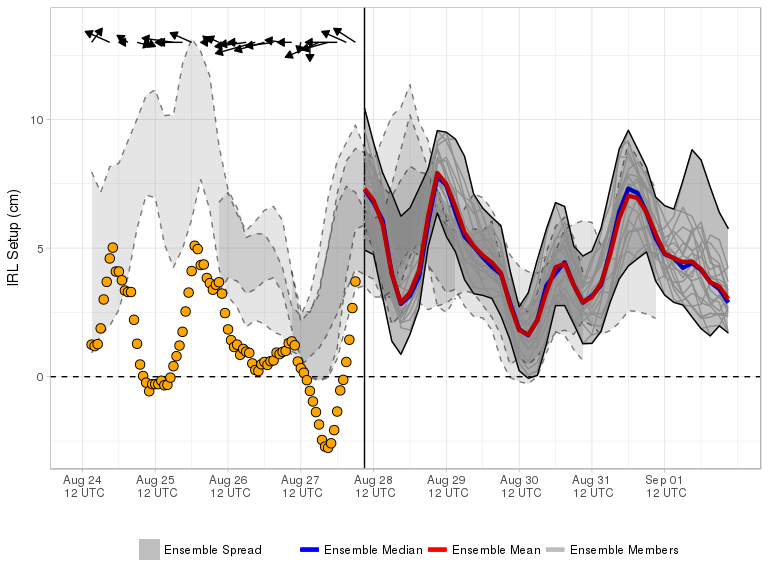
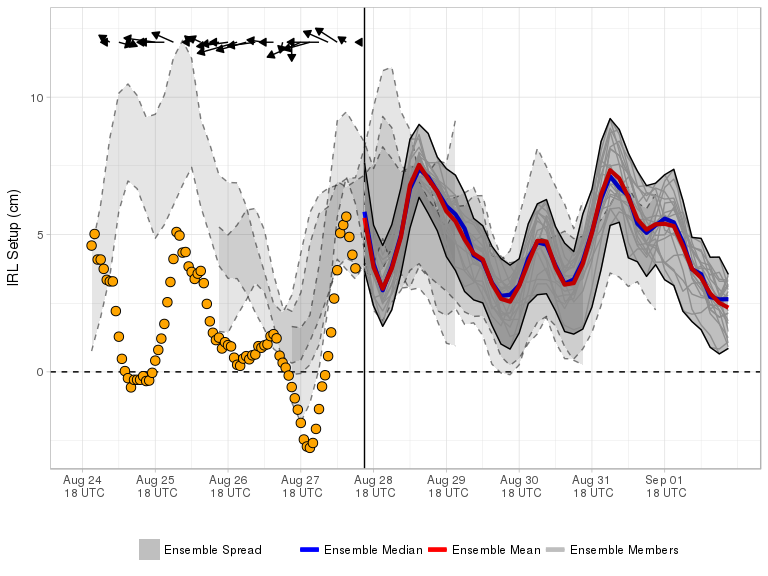
Forecast Update

Changed region(s): [[0.0625, 0.0312, 1.0, 0.7812]]

diff --git a/docs/index.md b/docs/index.md
@@ -1,9 +1,9 @@
-Current Forecast 2018-08-28, Cycle 00 UTC
+Current Forecast 2018-08-28, Cycle 06 UTC
 -----------------------------------------
 
 [![](img/raw_setup.png)](https://fit-winds.github.io/IRLSetup/img/raw_setup.png)
 
-> Forecast valid 2018-08-28 02:34:58.
+> Forecast valid 2018-08-28 08:55:37.
 
 Explanation
 -----------
@@ -23,7 +23,7 @@ Ensemble Forecast System
 cycles. Calculation of the IRL setup is performed shortly after a new
 GEFS cycle is made available on the [data access
 link](http://www.ftp.ncep.noaa.gov/data/nccf/com/gens/prod/). The
-current cycle 2018-08-28 00 UTC 0.5° GEFS mean and median forecasts of
+current cycle 2018-08-28 06 UTC 0.5° GEFS mean and median forecasts of
 setup are represented by the red and blue curves, respectively. Ensemble
 spread from the current and three previous GEFS runs are shaded grey and
 bounded by solid and dashed curves, respectively.
